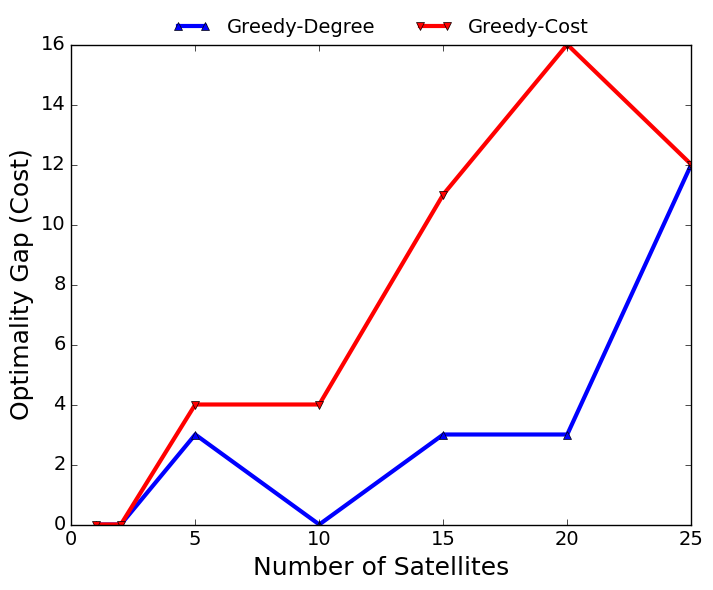
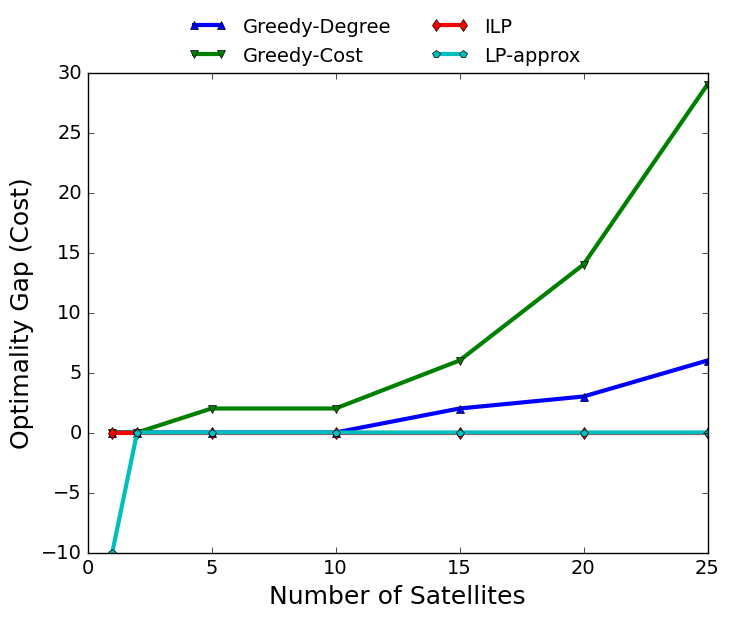
ILP and LP approximation

diff --git a/solver.py b/solver.py
@@ -1,0 +1,93 @@
+from gurobipy import *
+from scipy.stats import bernoulli
+
+def weighted_set_cover_lp_relaxation(G, tuple_nodes, satellite_nodes, k):
+    """
+    Solve the LP relaxation of the set cover problem, with k sampling iterations
+    
+    Returns:
+        tuple: (satellite_set, total_cost)
+    """
+    m = Model("weighted_set_cover_ilp")
+    
+    # Create a mapping of each location-time tuple to all satellites that can cover it
+    coverage_map = {}
+    for sat in satellite_nodes:
+        coverage_map[sat] = set(G.neighbors(sat))
+    
+    # Initialize the set of all location-time tuples
+    U = set(tuple_nodes)
+    
+    # Initialize an empty set to store the selected satellites
+    satellite_set = set()
+    
+    # Create a binary variable for each satellite
+    x = {}
+    for sat in satellite_nodes:
+        x[sat] = m.addVar(vtype=GRB.CONTINUOUS, ub=1, name=f"x_{sat}")
+    
+    # Set objective function
+    m.setObjective(quicksum(satellite_nodes[sat] * x[sat] for sat in satellite_nodes), GRB.MINIMIZE)
+    
+    # Add constraints
+    for tuple_node in tuple_nodes:
+        if G.degree(tuple_node) == 0:
+            continue
+        m.addConstr(quicksum(x[sat] for sat in coverage_map if tuple_node in coverage_map[sat]) >= 1)
+    
+    m.optimize()
+    
+    for i in range(k):
+        for sat in satellite_nodes:
+            sample = bernoulli.rvs(x[sat].x)
+            if sample == 1:
+                satellite_set.add(sat)
+    
+    total_cost = sum(satellite_nodes[sat] for sat in satellite_set)
+    
+    return satellite_set, total_cost
+
+
+def weighted_set_cover_ilp(G, tuple_nodes, satellite_nodes):
+    """
+    Solve the LP relaxation of the set cover problem, with k sampling iterations
+    
+    Returns:
+        tuple: (satellite_set, total_cost)
+    """
+    m = Model("weighted_set_cover_ilp")
+    
+    # Create a mapping of each location-time tuple to all satellites that can cover it
+    coverage_map = {}
+    for sat in satellite_nodes:
+        coverage_map[sat] = set(G.neighbors(sat))
+    
+    # Initialize the set of all location-time tuples
+    U = set(tuple_nodes)
+    
+    # Initialize an empty set to store the selected satellites
+    satellite_set = set()
+    
+    # Create a binary variable for each satellite
+    x = {}
+    for sat in satellite_nodes:
+        x[sat] = m.addVar(vtype=GRB.BINARY, name=f"x_{sat}")
+    
+    # Set objective function
+    m.setObjective(quicksum(satellite_nodes[sat] * x[sat] for sat in satellite_nodes), GRB.MINIMIZE)
+    
+    # Add constraints
+    for tuple_node in tuple_nodes:
+        if G.degree(tuple_node) == 0:
+            continue
+        m.addConstr(quicksum(x[sat] for sat in coverage_map if tuple_node in coverage_map[sat]) >= 1)
+    
+    m.optimize()
+    
+    for sat in satellite_nodes:
+        if x[sat].x == 1:
+            satellite_set.add(sat)
+    
+    total_cost = sum(satellite_nodes[sat] for sat in satellite_set)
+    
+    return satellite_set, total_cost

diff --git a/optimization_experiments.py b/optimization_experiments.py
@@ -1,10 +1,10 @@
 from util_v2 import *
+from solver import *
 import matplotlib
 matplotlib.use('Agg')  # for Linux (not needed for Mac I believe)
 import matplotlib.pyplot as plt
 import time
-
-
+import math
 
 def get_covered_tuple_nodes(G, tuple_nodes):
     covered_tuple_nodes = []
@@ -23,8 +23,12 @@ x_vals = []
 brute_force_times = []
 deg_times = []
 cost_times = []
+ilp_times = []
+lp_times = []
 deg_optimality_gaps = []
 cost_optimality_gaps = []
+ilp_gaps = []
+lp_gaps = []
 
 for (num_timesteps, num_locations, num_satellites) in zip(num_timesteps_list, num_locations_list, num_satellites_list):
     print(f"num_timesteps: {num_timesteps}, num_locations: {num_locations}, num_satellites: {num_satellites}")
@@ -63,11 +67,27 @@ for (num_timesteps, num_locations, num_satellites) in zip(num_timesteps_list, nu
     cost_times.append(end - start)
     cost_optimality_gaps.append(greedy_cost_cost - brute_force_cost)
 
+    start = time.time()
+    ilp_satellite_set, ilp_cost = weighted_set_cover_ilp(G, feasible_tuple_nodes, satellite_nodes)
+    end = time.time()
+    ilp_times.append(end - start)
+    ilp_gaps.append(ilp_cost - brute_force_cost)
+
+    k = 2 * math.ceil(np.log(num_satellites))
+    start = time.time()
+    lp_satellite_set, lp_cost = weighted_set_cover_lp_relaxation(G, feasible_tuple_nodes, satellite_nodes, k)
+    end = time.time()   
+    lp_times.append(end - start)
+    lp_gaps.append(lp_cost - brute_force_cost)
+
+
 plt.style.use('classic')
 plt.rcParams.update({'font.size': 14})
-plt.plot(x_vals, brute_force_times, marker='s', lw=3, label="Brute-Force", color='green')
-plt.plot(x_vals, deg_times, marker='o', lw=3, label="Greedy-Degree", color='blue')
-plt.plot(x_vals, cost_times, marker='x', lw=3, label="Greedy-Cost", color='red')
+plt.plot(x_vals, brute_force_times, marker='s', lw=3, label="Brute-Force")
+plt.plot(x_vals, deg_times, marker='o', lw=3, label="Greedy-Degree")
+plt.plot(x_vals, cost_times, marker='x', lw=3, label="Greedy-Cost")
+plt.plot(x_vals, ilp_times, marker='d', lw=3, label="ILP")
+plt.plot(x_vals, lp_times, marker='p', lw=3, label="LP-approx")
 plt.xlabel("Number of Satellites", fontsize=18)
 plt.ylabel("Time (s)", fontsize=18)
 plt.legend(loc=(0, 1), frameon=False, ncol=3, fontsize=14)   
@@ -75,8 +95,10 @@ plt.savefig('time_comparison.png', bbox_inches='tight')
 
 plt.clf()
 plt.rcParams.update({'font.size': 14})
-plt.plot(x_vals, deg_optimality_gaps, marker='^', lw=3, label="Greedy-Degree", color='blue')
-plt.plot(x_vals, cost_optimality_gaps, marker='v', lw=3, label="Greedy-Cost", color='red')
+plt.plot(x_vals, deg_optimality_gaps, marker='^', lw=3, label="Greedy-Degree")
+plt.plot(x_vals, cost_optimality_gaps, marker='v', lw=3, label="Greedy-Cost")
+plt.plot(x_vals, ilp_gaps, marker='d', lw=3, label="ILP")
+plt.plot(x_vals, lp_gaps, marker='p', lw=3, label="LP-approx")
 plt.xlabel("Number of Satellites", fontsize=18)
 plt.ylabel("Optimality Gap (Cost)", fontsize=18)
 plt.legend(loc=(0.15, 1), frameon=False, ncols=2, fontsize=14)
